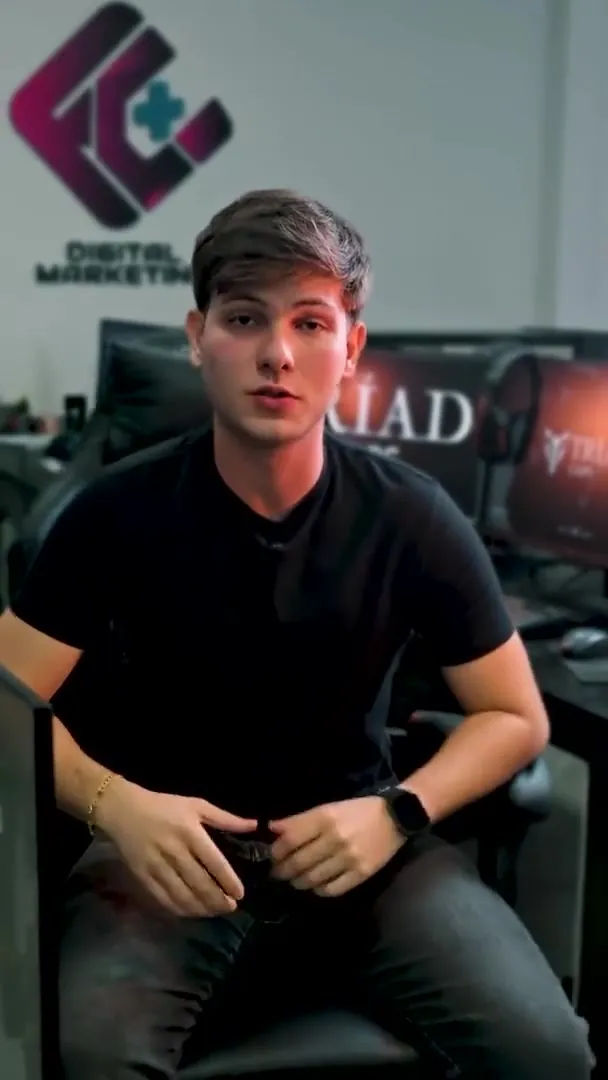
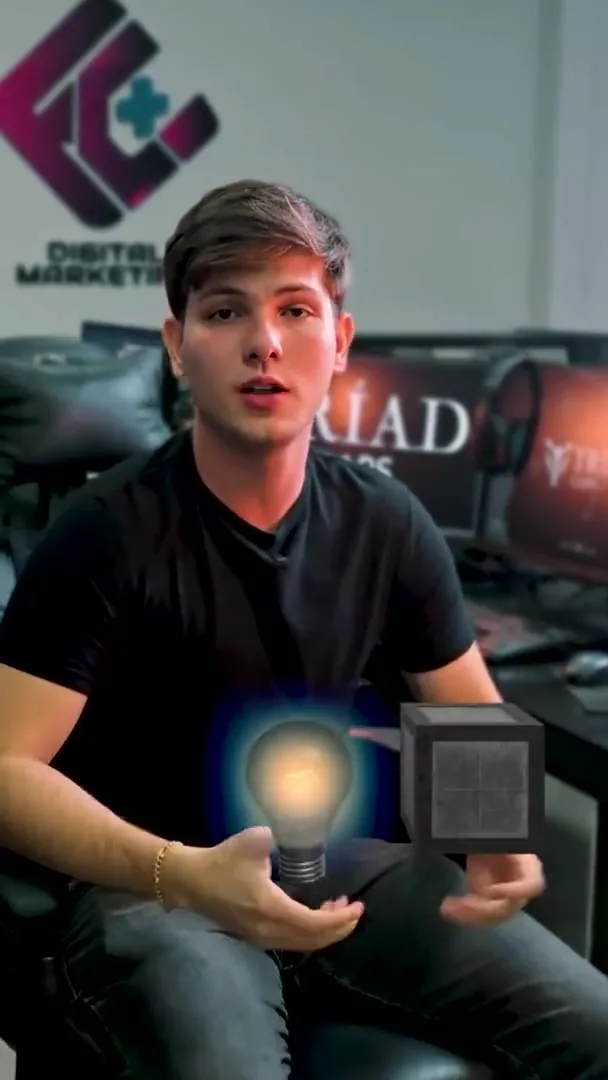
Exibe capa dos vídeos ao abrir categoria e remove Lista.
Overlay de poster no lightbox mobile, preload das capas
ao entrar em Vídeos, e cache bump; Lista já fora da home.

diff --git a/script.js b/script.js
@@ -562,6 +562,20 @@
     chrome?.classList.toggle("is-panel-mode", panelViews.has(name));
     document.body.classList.toggle("is-panel-scroll", panelViews.has(name));
 
+    if (name === "videos") {
+      Object.values(projects).forEach((project) => {
+        (project.media || []).forEach((item) => {
+          const poster = item && typeof item === "object"
+            ? (item.poster || (item.video ? item.video.replace(/\.mp4$/i, ".poster.webp") : ""))
+            : "";
+          if (!poster) return;
+          const warm = new Image();
+          warm.decoding = "async";
+          warm.src = poster;
+        });
+      });
+    }
+
     if (name === "slider") requestAnimationFrame(() => swiper.update());
   };
 
@@ -617,6 +631,16 @@
       }
     }
     lbGallery.innerHTML = "";
+    // Warm poster frames so mobile lightbox never opens on a black player
+    project.media.forEach((item) => {
+      const poster = item && typeof item === "object"
+        ? (item.poster || (item.video ? item.video.replace(/\.mp4$/i, ".poster.webp") : ""))
+        : "";
+      if (!poster) return;
+      const warm = new Image();
+      warm.decoding = "async";
+      warm.src = poster;
+    });
     project.media.forEach((item, i) => {
       if (item && typeof item === "object" && item.youtube) {
         const wrap = document.createElement("div");
@@ -655,6 +679,8 @@
           }
           wrap.appendChild(meta);
         }
+        const stage = document.createElement("div");
+        stage.className = "lb-video-stage";
         const video = document.createElement("video");
         video.controls = true;
         video.playsInline = true;
@@ -663,10 +689,27 @@
         video.setAttribute("webkit-playsinline", "");
         if (item.caption) video.setAttribute("aria-label", item.caption);
         const poster = item.poster || (item.video ? item.video.replace(/\.mp4$/i, ".poster.webp") : "");
-        if (poster) video.poster = poster;
-        // Keep src ready so mobile shows poster + can play quickly
-        video.preload = "metadata";
+        // Keep poster visible until play (avoids black first-frame flash on mobile)
+        video.preload = "none";
+        if (poster) {
+          video.poster = poster;
+          video.setAttribute("poster", poster);
+        }
         video.src = item.video;
+        stage.appendChild(video);
+        if (poster) {
+          const cover = document.createElement("img");
+          cover.className = "lb-video-cover";
+          cover.src = poster;
+          cover.alt = "";
+          cover.decoding = "async";
+          cover.loading = "eager";
+          if (i < 2) cover.fetchPriority = "high";
+          stage.appendChild(cover);
+          const hideCover = () => cover.classList.add("is-hidden");
+          video.addEventListener("playing", hideCover, { once: true });
+          video.addEventListener("play", hideCover, { once: true });
+        }
         video.addEventListener("play", () => {
           lbGallery.querySelectorAll("video").forEach((other) => {
             if (other !== video) {
@@ -674,7 +717,7 @@
             }
           });
         });
-        wrap.appendChild(video);
+        wrap.appendChild(stage);
         lbGallery.appendChild(wrap);
         return;
       }

diff --git a/styles.css b/styles.css
@@ -991,17 +991,33 @@ body.is-loading .stage {
   border: 1px solid var(--line);
   padding: 0.85rem 0.85rem 1rem;
 }
-.lb-native-video video {
+.lb-video-stage {
+  position: relative;
+  display: grid;
+  width: 100%;
+  justify-items: center;
+  background: #0a0a09;
+}
+.lb-video-stage video,
+.lb-video-cover {
+  grid-area: 1 / 1;
   width: auto;
   max-width: 100%;
   max-height: min(72vh, 820px);
   height: auto;
-  background: #000;
   object-fit: contain;
-  background-size: contain;
-  background-position: center;
-  background-repeat: no-repeat;
 }
+.lb-video-stage video {
+  position: relative;
+  z-index: 1;
+  background: #000;
+}
+.lb-video-cover {
+  z-index: 2;
+  pointer-events: none;
+  background: #0a0a09;
+}
+.lb-video-cover.is-hidden { display: none; }
 .lb-video-meta {
   width: min(100%, 34rem);
   display: grid;
@@ -1228,7 +1244,8 @@ body.is-loading .stage {
   .lb-native-video {
     padding: 0.55rem 0.55rem 0.85rem;
   }
-  .lb-native-video video {
+  .lb-video-stage video,
+  .lb-video-cover {
     max-height: min(58vh, 560px);
     width: 100%;
   }

diff --git a/index.html b/index.html
@@ -11,7 +11,7 @@
   <link rel="preconnect" href="https://fonts.gstatic.com" crossorigin>
   <link href="https://fonts.googleapis.com/css2?family=Instrument+Serif:ital@0;1&family=Schibsted+Grotesk:wght@400;500;600&family=IBM+Plex+Mono:wght@400;500&display=swap" rel="stylesheet">
   <link rel="stylesheet" href="https://cdn.jsdelivr.net/npm/swiper@11/swiper-bundle.min.css">
-  <link rel="stylesheet" href="styles.css?v=bergh-craft-34">
+  <link rel="stylesheet" href="styles.css?v=bergh-craft-35">
 </head>
 <body class="is-loading">
   <div class="loader" id="loader" aria-hidden="true">
@@ -408,6 +408,6 @@
 
   <script src="https://cdn.jsdelivr.net/npm/swiper@11/swiper-bundle.min.js"></script>
   <script src="https://cdn.jsdelivr.net/npm/gsap@3.12.5/dist/gsap.min.js"></script>
-  <script src="script.js?v=bergh-craft-34" defer></script>
+  <script src="script.js?v=bergh-craft-35" defer></script>
 </body>
 </html>
